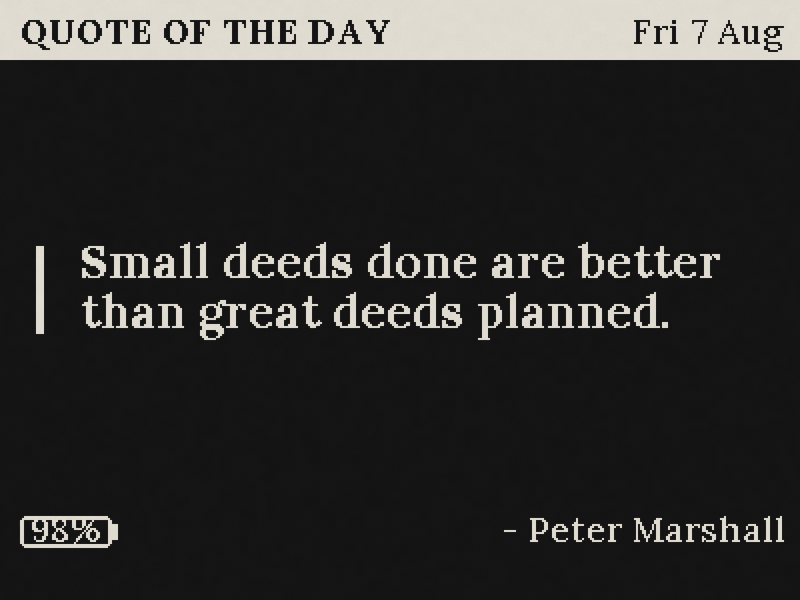
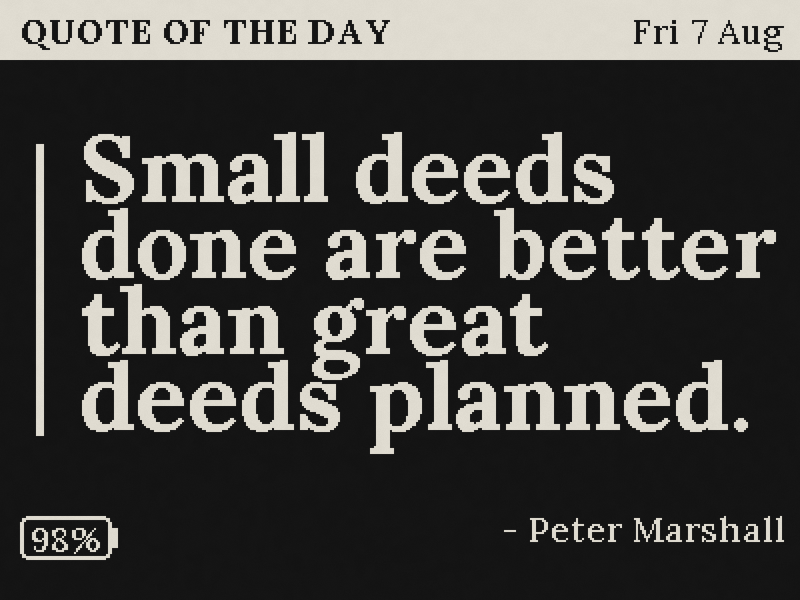
.

diff --git a/src/lib/eink/layouts/moon.ts b/src/lib/eink/layouts/moon.ts
@@ -5,6 +5,7 @@ import { dayIdx, dayShort, monthShort, tmOf, type LayoutCtx } from '../context';
 import { batteryIcon } from '../batteryIcon';
 import { moonInfo, nextPhase, sunTimes } from '../astro';
 import { moonBits } from '../moonImage';
+import { measure, wrapText, firstThatFits } from '../measure';
 
 const pad2 = (n: number) => String(n).padStart(2, '0');
 
@@ -27,14 +28,19 @@ export function moon(ctx: LayoutCtx): string {
 	// The moon as it is at midday on this date.
 	const noonMs = (dayIdx(ctx.nowLocal) * 86400 + 43200 - off) * 1000;
 	const info = moonInfo(noonMs);
-	const SZ = 216;
-	d.bitmapBytes(8, 56, SZ, SZ, moonBits({ size: SZ, elong: info.elong, flip: !!ctx.loc && ctx.loc.lat < 0, dark: ctx.dark }));
+	// Wide fonts (the monospace ones) need more room for the words, so the moon gets a bit
+	// smaller and the text column wider. Other fonts keep the original layout.
+	const wide = measure(ctx.family, 's', 'Full moon  28 Aug').w > 150;
+	const SZ = wide ? 176 : 216;
+	const PX = wide ? 196 : 240; // left edge of the text column
+	const PW = 392 - PX;
+	d.bitmapBytes(8, wide ? 76 : 56, SZ, SZ, moonBits({ size: SZ, elong: info.elong, flip: !!ctx.loc && ctx.loc.lat < 0, dark: ctx.dark }));
 
 	// phase name, how much is lit, and the next new and full moon
 	const words = info.name.split(' ');
-	d.text(240, 56, 'mb', words[0]);
-	d.text(240, 78, 'mb', words.slice(1).join(' '));
-	d.text(240, 100, 's', `${Math.round(info.illum * 100)}% lit`);
+	d.text(PX, 56, 'mb', words[0]);
+	d.text(PX, 78, 'mb', words.slice(1).join(' '));
+	d.text(PX, 100, 's', `${Math.round(info.illum * 100)}% lit`);
 
 	const dateOf = (ms: number) => {
 		const t = tmOf(Math.floor(ms / 1000) + off);
@@ -48,28 +54,25 @@ export function moon(ctx: LayoutCtx): string {
 	];
 	rows.sort((a, b) => a[1] - b[1]);
 	rows.forEach(([label, ms], i) => {
-		d.text(240, 124 + i * 18, 's', label);
+		d.text(PX, 124 + i * 18, 's', label);
 		d.text(392, 124 + i * 18, 's', dateOf(ms), { align: 'right' });
 	});
-	d.hline(240, 148, 152);
+	d.hline(PX, 148, PW);
 
 	// the sun
 	if (!ctx.loc) {
-		d.text(240, 178, 's', 'Add a weather location in');
-		d.text(240, 196, 's', 'setup to see sunrise and');
-		d.text(240, 214, 's', 'sunset times.');
+		wrapText(ctx.family, 's', 'Add a weather location in setup to see sunrise and sunset times.', PW).forEach((ln, i) => d.text(PX, 178 + i * 18, 's', ln));
 		return d.toString();
 	}
 	const sun = sunTimes(now.year, now.mon, now.mday, ctx.loc.lat, ctx.loc.lon);
 	if (sun.rise === null || sun.set === null) {
-		d.text(240, 186, 'mb', sun.polar === 'day' ? 'The sun stays up' : 'The sun stays down');
-		d.text(240, 206, 's', 'all day today.');
+		wrapText(ctx.family, 'mb', sun.polar === 'day' ? 'The sun stays up all day today.' : 'The sun stays down all day today.', PW).forEach((ln, i) => d.text(PX, 186 + i * 24, 'mb', ln));
 		return d.toString();
 	}
 
 	// an arc from sunrise to sunset, with the sun at its highest, over a horizon line
-	const cx = 316;
-	const rx = 66;
+	const cx = PX + PW / 2;
+	const rx = Math.min(66 + (wide ? 22 : 0), Math.floor(PW / 2) - 6);
 	const ry = 44;
 	const hy = 208;
 	const N = 36;
@@ -82,7 +85,7 @@ export function moon(ctx: LayoutCtx): string {
 		const [x1, y1] = pt(i + 1);
 		d.line(x0, y0, x1, y1);
 	}
-	d.hline(244, hy, 144);
+	d.hline(cx - rx - 4, hy, rx * 2 + 8);
 	d.vline(cx - rx, hy - 4, 8);
 	d.vline(cx + rx, hy - 4, 8);
 	const sy = hy - ry;
@@ -98,6 +101,7 @@ export function moon(ctx: LayoutCtx): string {
 	d.text(cx - rx, hy + 42, 'mb', hhmm(sun.rise, off));
 	d.text(cx + rx, hy + 42, 'mb', hhmm(sun.set, off), { align: 'right' });
 	const mins = Math.round((sun.set - sun.rise) / 60000);
-	d.text(cx, hy + 66, 's', `${Math.floor(mins / 60)}h ${pad2(mins % 60)}m of daylight`, { align: 'center' });
+	const hm = `${Math.floor(mins / 60)}h ${pad2(mins % 60)}m`;
+	d.text(cx, hy + 66, 's', firstThatFits(ctx.family, 's', [`${hm} of daylight`, `${hm} daylight`, hm], PW), { align: 'center' });
 	return d.toString();
 }

diff --git a/src/lib/eink/layouts/todo.ts b/src/lib/eink/layouts/todo.ts
@@ -1,6 +1,6 @@
 // To-do: your Google Tasks, open ones first, with a tick box for each.
 import { Draw, PAPER } from '../draw';
-import { measure } from '../measure';
+import { measure, wrapText } from '../measure';
 import { dayIdx, dayShort, monthShort, tmOf, type LayoutCtx, type TaskItem } from '../context';
 import { batteryIcon } from '../batteryIcon';
 import { parseDay } from './countdown';
@@ -19,6 +19,14 @@ function dueLabel(due: string | undefined, today: number): string {
 	return `${dayShort(t)} ${t.mday} ${monthShort(t)}`;
 }
 
+// A centred heading with a note under it, wrapped so it stays on the screen in any font.
+function message(d: Draw, fam: LayoutCtx['family'], title: string, note: string, y: number): void {
+	const head = wrapText(fam, 'mb', title, 360);
+	head.forEach((ln, i) => d.text(200, y + 18 + i * 26, 'mb', ln, { align: 'center' }));
+	const ny = y + 18 + head.length * 26 + 8;
+	wrapText(fam, 's', note, 360).forEach((ln, i) => d.text(200, ny + i * 20, 's', ln, { align: 'center' }));
+}
+
 export function todo(ctx: LayoutCtx): string {
 	const d = new Draw(ctx.family, ctx.dark);
 	const fam = ctx.family;
@@ -31,14 +39,11 @@ export function todo(ctx: LayoutCtx): string {
 	batteryIcon(d, ctx, 200, 4, 'center', PAPER);
 
 	if (ctx.tasksState === 'needs_permission') {
-		d.text(200, 118, 'mb', 'Connect Google Tasks', { align: 'center' });
-		d.text(200, 146, 's', 'Open your dashboard, choose Customize,', { align: 'center' });
-		d.text(200, 164, 's', 'then press "Connect Google Tasks".', { align: 'center' });
+		message(d, fam, 'Connect Google Tasks', 'Open your dashboard, choose Customize, then press "Connect Google Tasks".', 100);
 		return d.toString();
 	}
 	if (ctx.tasksState === 'error' || !ctx.tasks) {
-		d.text(200, 130, 'mb', "Couldn't load your tasks", { align: 'center' });
-		d.text(200, 158, 's', 'It will try again at the next update.', { align: 'center' });
+		message(d, fam, "Couldn't load your tasks", 'It will try again at the next update.', 110);
 		return d.toString();
 	}
 
@@ -46,8 +51,9 @@ export function todo(ctx: LayoutCtx): string {
 	const done: TaskItem[] = ctx.tasks.filter((t) => t.done);
 	const list = [...open, ...done];
 	if (!list.length) {
-		d.text(200, 150, 'bb', 'All done!', { align: 'center', scale: 2 });
-		d.text(200, 186, 's', 'Nothing on your list.', { align: 'center' });
+		const big = measure(fam, 'bb', 'All done!', 2).w <= 360;
+		d.text(200, big ? 150 : 140, 'bb', 'All done!', { align: 'center', scale: big ? 2 : 1 });
+		d.text(200, big ? 186 : 176, 's', 'Nothing on your list.', { align: 'center' });
 		return d.toString();
 	}
 

diff --git a/src/lib/eink/layouts/quote.ts b/src/lib/eink/layouts/quote.ts
@@ -15,7 +15,7 @@ export function quote(ctx: LayoutCtx): string {
 	d.text(392, 21, 's', `${dayShort(now)} ${now.mday} ${monthShort(now)}`, { align: 'right', color: PAPER });
 
 	const [text, who] = quoteForDay(dayIdx(ctx.nowLocal));
-	const boxW = 340;
+	const boxW = 350;
 	const boxH = 196; // from y=48 to y=244
 	// the biggest size where the whole quote fits
 	const sizes: { role: 'bb' | 'mb' | 'm'; scale: number; lh: number }[] = [
@@ -27,7 +27,7 @@ export function quote(ctx: LayoutCtx): string {
 	let lines = wrapText(fam, pick.role, text, boxW, pick.scale);
 	for (const s of sizes) {
 		const l = wrapText(fam, s.role, text, boxW, s.scale);
-		if (l.length * s.lh <= boxH && (s.role !== 'bb' || l.length <= 4)) {
+		if (l.length * s.lh <= boxH && (s.role !== 'bb' || l.length <= 5)) {
 			pick = s;
 			lines = l;
 			break;
@@ -36,7 +36,7 @@ export function quote(ctx: LayoutCtx): string {
 	const blockH = lines.length * pick.lh;
 	const top = 48 + Math.floor((boxH - blockH) / 2);
 	d.fill(18, top + 2, 4, blockH - 6);
-	lines.forEach((ln, i) => d.text(40, top + i * pick.lh + pick.lh - 8, pick.role, ln, { maxW: boxW + 10 }));
+	lines.forEach((ln, i) => d.text(40, top + i * pick.lh + pick.lh - 8, pick.role, ln, { maxW: boxW + 2 }));
 
 	d.text(392, 270, 's', '- ' + who, { align: 'right', maxW: 300 });
 	batteryIcon(d, ctx, 10, 258, 'left');

diff --git a/src/lib/eink/layouts/week.ts b/src/lib/eink/layouts/week.ts
@@ -3,7 +3,7 @@
 import { Draw, PAPER } from '../draw';
 import { measure } from '../measure';
 import { dayIdx, dayName, dayShort, evTimeStr, monthName, monthShort, round0, tmFromDayIdx, tmOf, type LayoutCtx } from '../context';
-import { batteryIcon, batteryIconWidth } from '../batteryIcon';
+import { batteryIcon, batteryIconWidth, BATTERY_H } from '../batteryIcon';
 
 export function week(ctx: LayoutCtx): string {
 	const d = new Draw(ctx.family, ctx.dark);
@@ -105,6 +105,6 @@ export function week(ctx: LayoutCtx): string {
 		}
 		shown++;
 	}
-	batteryIcon(d, ctx, 392, fy + 18, 'right');
+	batteryIcon(d, ctx, 392, Math.min(fy + 18, 300 - BATTERY_H - 4), 'right');
 	return d.toString();
 }
